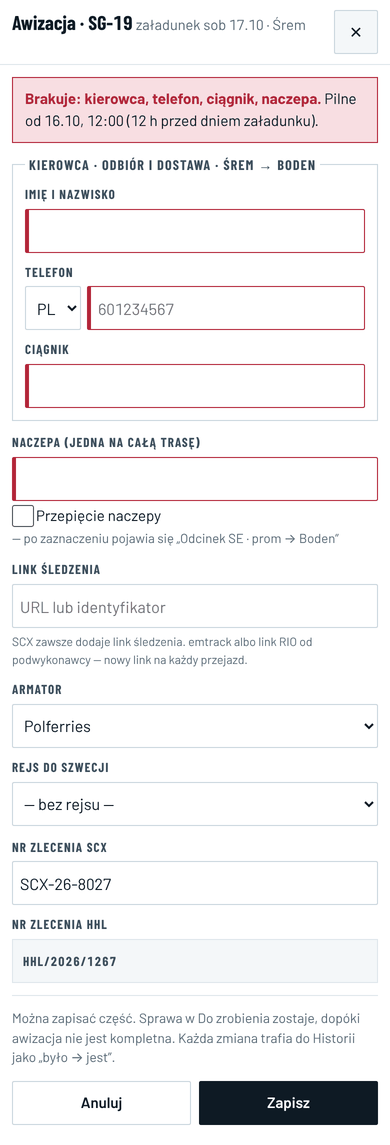
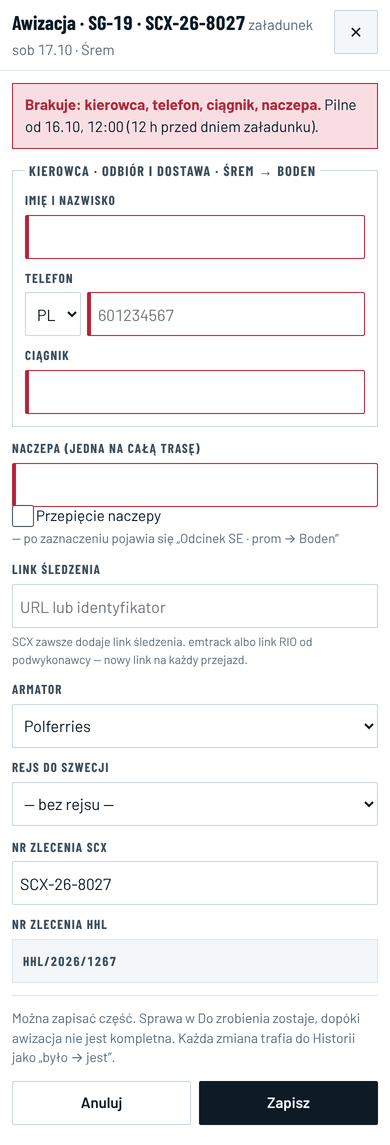
fix(wyglad/P7-a): poprawki z audytu decyzji 15.10 — CMR według E31 1B, zezwolenie Firma/Trasa, numer HHL w polu, okno tylko do odczytu dla HHL Operacje, odcinek SE tylko przy przepięciu, bez starej listy pilotów, nazwa E41 w oknie, „OC przewoźnika — PZU”
Claude-Session: https://claude.ai/code/session_01S36qMbEWpRWj55jt4pBR6E

diff --git a/src/components/drawer/PanelOverview.tsx b/src/components/drawer/PanelOverview.tsx
@@ -25,7 +25,7 @@ import { SITES } from '../../lib/status';
 import { effArrival, effDeparture, fmtLocal, sailingStatusLabel } from '../../lib/sailings';
 import { getDocReqCache } from '../../lib/docReqCache';
 import { DEFAULT_DOC_REQUIREMENTS, docStatusRows } from '../../lib/docRequirements';
-import { reqVisible } from '../../lib/p5Docs';
+import { cmrKind, reqVisible } from '../../lib/p5Docs';
 import { policiesOf } from '../../lib/p5Source';
 import { trackingLinkOf } from '../../lib/p4cSource';
 import { EtaBlock } from './EtaBlock';
@@ -50,8 +50,6 @@ interface Props {
   siteSince: string | null;
   delayMin: number | null;
   mapNode: ReactNode;
-  /** dzisiejsza lista pilotów z bazy (produkcja, SCX i KSH), dopóki piloci nie wejdą do awizacji */
-  escortNode: ReactNode;
   ratingNode: ReactNode;
   onAwiz: () => void;
   onKshDates: () => void;
@@ -135,11 +133,19 @@ export function PanelOverview(p: Props) {
     peopleOf: () => null, historyOf: () => null, onTake: noop, onGive: noop, onTakeover: noop, confirmId: null, onConfirm: noop,
     onCancelConfirm: noop, onGo: noop, onFee: noop, checkHandlers: () => ({}), decisions: null, mayResolve: () => false, onResolved: noop,
   };
+  /* E32 pkt 2, E9 krok 5: numer HHL wpisuje HHL w „Numerach zleceń”, bez okna Awizacja i bez kompletnej awizacji */
+  const goHhlNo = () => {
+    const fold = document.querySelector<HTMLDetailsElement>('.drawer details[data-po="numbers"]');
+    if (fold) fold.open = true;
+    const el = document.querySelector<HTMLInputElement>('.drawer [data-order="hhl"] input');
+    el?.scrollIntoView({ block: 'center' });
+    el?.focus();
+  };
   const action = (i: TodoIssue): ReactNode => {
     if (i.owner !== role) return <span className="po-chip">{ORG_SHORT[i.owner]}</span>;
     if (i.go === 'AWIZACJA') {
       if (role === 'SCX') return <button type="button" className="btn ghost" data-po-act="awiz" onClick={p.onAwiz}>{pt(locale, 'p7_todo_awiz')}</button>;
-      if (role === 'HHL' && i.risk?.titleKey?.startsWith('rk_order_no_hhl') && !(load.hhlOrderNo ?? '').trim()) return <button type="button" className="btn" data-po-act="hhl-no" onClick={p.onAwiz}>{pt(locale, 'p7_todo_add')}</button>;
+      if (role === 'HHL' && i.risk?.titleKey?.startsWith('rk_order_no_hhl') && !(load.hhlOrderNo ?? '').trim()) return <button type="button" className="btn" data-po-act="hhl-no" onClick={goHhlNo}>{pt(locale, 'p7_todo_add')}</button>;
     }
     if (i.go === 'DOCS') return <button type="button" className="btn ghost" data-po-act="docs" onClick={() => p.onTab('docs')}>{pt(locale, 'p7_todo_upload')}</button>;
     if (i.go === 'PRICING' || i.go === 'FEE') return <button type="button" className="btn ghost" data-po-act="pricing" onClick={() => p.onTab('pricing')}>{pt(locale, 'p7_todo_prices')}</button>;
@@ -204,8 +210,8 @@ export function PanelOverview(p: Props) {
   const segNow = segmentNow(load);
   const hasDriver = !!(r.driverName ?? '').trim();
   const swap = !!r.trailerSwap;
-  /* dwa odcinki — ten sam warunek co w oknie Awizacja: przepięcie albo wpisany kierowca / ciągnik odcinka SE (E6) */
-  const twoSeg = swap || [r.driverDeliveryName, r.driverDeliveryPhone, r.tractorDeliveryPlate].some((v) => !!(v ?? '').trim());
+  /* dwa odcinki tylko przy przepięciu naczepy (E6: bez przepięcia jeden kierowca „odbiór i dostawa”) */
+  const twoSeg = swap;
   const driverCard = (seg: 'one' | 'PL' | 'SE', name: string | null | undefined, tel: string | null | undefined, tractor: string | null | undefined) => {
     const now = (seg === 'PL' && segNow === 'PL') || (seg === 'SE' && segNow === 'SE');
     const label = pt(locale, seg === 'one' ? 'p7_seg_one' : seg === 'PL' ? 'p7_seg_pl' : 'p7_seg_se');
@@ -256,8 +262,10 @@ export function PanelOverview(p: Props) {
   const rows = cached ? cached.status.filter((x) => x.loadId === load.id) : prod ? [] : docStatusRows([load], [...docs], reqs, Date.parse(nowIso));
   const doc = (c: string) => docs.find((d) => d.category === c && (d.status === 'UPLOADED' || d.status === 'MISMATCH') && !d.superseded);
   const row = (c: string) => rows.find((x) => x.category === c);
+  /* E31 (G-01c, L30): „Firma” — jedno zezwolenie firmowe wystarcza; „Trasa” — PL i SE przy transporcie */
+  const permitFirm = spec?.permit === 'FIRMA';
   const permitState: 'mismatch' | 'ok' | 'missing' = load.permitFits === false || docs.some((d) => d.category.startsWith('PERMIT') && d.status === 'MISMATCH')
-    ? 'mismatch' : doc('PERMIT_PL') && doc('PERMIT_SE') ? 'ok' : 'missing';
+    ? 'mismatch' : (permitFirm ? !!(doc('PERMIT_PL') ?? doc('PERMIT_SE')) : !!(doc('PERMIT_PL') && doc('PERMIT_SE'))) ? 'ok' : 'missing';
   const permitRows = [row('PERMIT_PL'), row('PERMIT_SE')].filter((x): x is NonNullable<typeof x> => !!x && x.state !== 'OK');
   const permitRow = permitRows.find((x) => x.state === 'OVERDUE')
     ?? [...permitRows].sort((a, b) => (a.dueAt ?? '9999').localeCompare(b.dueAt ?? '9999'))[0];
@@ -267,9 +275,10 @@ export function PanelOverview(p: Props) {
         : permitRow?.dueAt ? ptp(locale, 'p7_doc_due', { date: dmHm(permitRow.dueAt) }) : pt(locale, 'p7_doc_missing');
   const cmrDoc = doc('CMR');
   const cmrRow = row('CMR');
+  const cmrSigned = cmrKind(reqs.find((x) => x.category === 'CMR')) === 'SIGNED';
   const cmrState: 'ok' | 'over' | 'wait' = cmrDoc ? 'ok' : cmrRow?.state === 'OVERDUE' ? 'over' : 'wait';
   const cmrText = cmrState === 'ok' ? pt(locale, 'p7_doc_ok') : cmrState === 'over' ? pt(locale, 'p7_doc_over')
-    : cmrRow?.dueAt ? ptp(locale, 'p7_doc_due', { date: dmHm(cmrRow.dueAt) }) : pt(locale, 'p7_doc_cmr_after');
+    : cmrRow?.dueAt ? ptp(locale, 'p7_doc_due', { date: dmHm(cmrRow.dueAt) }) : pt(locale, cmrSigned ? 'p7_doc_cmr_after_unload' : 'p7_doc_cmr_after');
   const policies = policiesOf();
   const policyRow = (key: 'INSURANCE' | 'OCS') => {
     if (!reqVisible(key, role)) return null;
@@ -378,7 +387,6 @@ export function PanelOverview(p: Props) {
             </>
           ) : null}
         </dl>
-        {!spec ? p.escortNode : null}
         {awizBtn ? <div className="po-act" data-awiz-actions>{awizBtn}</div> : null}
       </Sec>
 
@@ -417,12 +425,9 @@ export function PanelOverview(p: Props) {
           <dl className="po-kv">
             <dt>HHL</dt>
             <dd data-order="hhl">
-              {hhlNo ? <b className="mono">{hhlNo}</b> : <span className="po-miss">{pt(locale, 'p7_num_missing')}</span>}
               {orderSide === 'HHL' ? (
-                <button type="button" className={`btn ${hhlNo ? 'ghost' : ''} po-inline`} data-hhl-order-btn onClick={p.onAwiz}>
-                  {pt(locale, hhlNo ? 'p7_num_edit' : 'p7_num_add')}
-                </button>
-              ) : !hhlNo ? <span className="po-muted">{` · ${pt(locale, 'p7_num_by_hhl')}`}</span> : null}
+                <OrderNoField key={`hhl-${load.id}`} value={load.hhlOrderNo} onSave={(v) => setOrderNo(load.id, 'HHL', v)} locale={locale} />
+              ) : hhlNo ? <b className="mono">{hhlNo}</b> : <><span className="po-miss">{pt(locale, 'p7_num_missing')}</span><span className="po-muted">{` · ${pt(locale, 'p7_num_by_hhl')}`}</span></>}
             </dd>
             <dt>SCX</dt>
             <dd data-order="scx">
@@ -442,9 +447,9 @@ export function PanelOverview(p: Props) {
         right={!phone ? <button type="button" className="linkbtn po-go" data-po-go="docs" onClick={() => p.onTab('docs')}>{pt(locale, 'p7_docs_go')} →</button> : null}
       >
         <dl className="po-kv">
-          <dt>{pt(locale, 'p7_doc_permit')}</dt>
+          <dt>{pt(locale, permitFirm ? 'p7_doc_permit_firm' : 'p7_doc_permit')}</dt>
           <dd data-permit={permitState}><span className={permitState === 'ok' ? 'po-ok' : 'po-miss'}>{permitText}</span></dd>
-          <dt>{pt(locale, 'p7_doc_cmr')}</dt>
+          <dt>{pt(locale, cmrSigned ? 'p7_doc_cmr_signed' : 'p7_doc_cmr')}</dt>
           <dd data-po-cmr={cmrState}><span className={cmrState === 'ok' ? 'po-ok' : cmrState === 'over' ? 'po-miss' : ''}>{cmrText}</span></dd>
           {pols.map((x) => (
             <Fragment key={x.key}>

diff --git a/src/components/drawer/AwizacjaModal.tsx b/src/components/drawer/AwizacjaModal.tsx
@@ -23,7 +23,8 @@ import { getNowIso } from '../../lib/frozenNow';
 import { trackingLinkOf } from '../../lib/p4cSource';
 import { TrackingLinkField } from './TrackingLinkField';
 import { awizDeadline, awizMissing, convoyOf, dayShort, dmHm, NO_PILOTS, pilotsMissingCount, type Pilots } from '../../lib/p7Awiz';
-import { pilotsOf, savePilotsOf, symbolSpecOf } from '../../lib/p7Source';
+import { canFixAwizOf, pilotsOf, savePilotsOf, symbolSpecOf } from '../../lib/p7Source';
+import { transportLabel } from '../../lib/transportName';
 import { pt, ptp } from '../../i18n/p7';
 import type { Load } from '../../types';
 import './p7.css';
@@ -175,13 +176,13 @@ export function AwizacjaModal({ load, onClose }: Props) {
     pilotsOn ? pil : null,
   );
   const deadline = awizDeadline(load.plannedLoadDate, nowIso, load.planDates?.loadFrom ?? null);
-  const twoSeg = trailerSwap || !!(driverDeliveryName || driverDeliveryPhone || tractorDeliveryPlate);
-  /* E32 pkt 6: KSH tylko ogląda awizację (wejście z adresu `?zakladka=awizacja`) */
-  const readOnly = role === 'KSH';
+  /* E6: odcinek SE tylko przy przepięciu naczepy */
+  const twoSeg = trailerSwap;
+  /* E32 pkt 6: SCX robi, HHL Administrator poprawia (canFixAwizOf), HHL Operacje i KSH tylko oglądają */
+  const readOnly = role === 'KSH' || (role === 'HHL' && !canFixAwizOf(role));
   const missText = missing.map((m) => pt(locale, `p7_miss_${m}`)).join(', ');
   const pilotsMiss = pilotsMissingCount(missing);
   const setPilot = (side: 'pl' | 'se', key: 'plate' | 'name', v: string) => setPil((x) => ({ ...x, [side]: { ...x[side], [key]: v } }));
-  const scxMissing = role === 'SCX' && !(load.carrierOrderNo ?? '').trim();
 
   return (
     <>
@@ -195,8 +196,12 @@ export function AwizacjaModal({ load, onClose }: Props) {
       >
         <header className="panel-hd am-hd">
           <h2 id="awiz-title" className="am-title">
-            {ptp(locale, 'p7_m_title', { code: load.code })}
-            {scxMissing ? <span className="am-miss"> {pt(locale, 'p7_hd_miss_scx')}</span> : null}
+            {(() => {
+              /* E41: nazwa transportu według firmy („SG-15 brak nr SCX” — brak na czerwono) */
+              const label = transportLabel(load, role, 'panel');
+              const m = / (brak nr (?:HHL|SCX))$/.exec(label);
+              return m ? <>{ptp(locale, 'p7_m_title', { code: label.slice(0, m.index) })}<span className="am-miss"> {m[1]}</span></> : ptp(locale, 'p7_m_title', { code: label });
+            })()}
             <span className="am-sub">{` ${ptp(locale, 'p7_m_load', { day: dayShort(load.plannedLoadDate) })}`}</span>
           </h2>
           <button type="button" className="iconbtn" aria-label={t(locale, 'close')} onClick={onClose}>✕</button>
@@ -372,7 +377,7 @@ export function AwizacjaModal({ load, onClose }: Props) {
               </p>
               {convoy.length ? (
                 <p className="am-convoy" data-awiz-convoy={convoy.length}>
-                  {ptp(locale, 'p7_m_convoy', { day: dayShort(load.plannedLoadDate), codes: convoy.map((l) => l.code).join(', ') })}
+                  {ptp(locale, 'p7_m_convoy', { day: dayShort(load.plannedLoadDate), codes: convoy.map((l) => transportLabel(l, role)).join(', ') })}
                 </p>
               ) : null}
               {(['pl', 'se'] as const).map((side) => (

diff --git a/tests/etap4-ui.spec.ts b/tests/etap4-ui.spec.ts
@@ -62,14 +62,12 @@ async function openLoadKsh(page: Page, code: string) {
   await openLoad(page, code, { orders: false })
   await page.waitForSelector('.drawer [data-ksh-edit]')
 }
-/** B-SMOKE-DRIFT: nr HHL edytowany w oknie awizacji (AWIZ-4 / HHL-4a, 13ace35), nie w polu szuflady. */
+/** wyglad/P7-a — E32 pkt 2, E9 krok 5: nr HHL wpisuje HHL w „Numerach zleceń” Przeglądu (bez okna Awizacja i bez kompletnej awizacji). */
 async function setHhlOrder(page: Page, v: string) {
   await page.locator('.drawer button[aria-selected]').nth(0).click()
-  await page.locator('.drawer [data-hhl-order-btn]').click()
-  const modal = page.locator('[data-awiz-modal]')
-  await modal.locator('[data-awiz-hhl-order]').fill(v)
-  await modal.locator('[data-awiz-save]').click()
-  await expect(modal).toHaveCount(0)
+  const f = page.locator('.drawer [data-order="hhl"]')
+  await f.locator('input').fill(v)
+  await f.locator('button[type="submit"]').click()
 }
 
 test.describe('M5 — numery zleceń', () => {
@@ -113,7 +111,8 @@ test.describe('M5 — numery zleceń', () => {
     expect(code, 'transport z przyciskiem Zmień status').not.toBe('')
     await page.locator('.drawer button[aria-selected]').nth(0).click()
     await expect(page.locator('.drawer [data-order="scx"] input')).toHaveCount(0)
-    await expect(page.locator('.drawer [data-order="hhl"] .mono')).toHaveText(/^HHL\/2026\//)
+    /* wyglad/P7-a — E32: HHL wpisuje numer w polu „Numery zleceń” */
+    await expect(page.locator('.drawer [data-order="hhl"] input')).toHaveValue(/^HHL\/2026\//)
     await setHhlOrder(page, '')
     await closeDrawer(page)
     const row0 = page.locator('tr[data-load]', { has: page.locator('span.code', { hasText: new RegExp(`^${code}`) }) })

diff --git a/src/components/drawer/LoadDrawer.tsx b/src/components/drawer/LoadDrawer.tsx
@@ -42,7 +42,7 @@ const PanelChat = lazy(lazyRetry(() => import('./PanelChat').then((m) => ({ defa
 const PanelOverview = lazy(lazyRetry(() => import('./PanelOverview').then((m) => ({ default: m.PanelOverview }))));
 const CarrierRating = import.meta.env.VITE_AUTH_MODE === 'supabase' && SUPABASE_AUTH_ENABLED ? lazy(() => import('../../auth/CarrierRating')) : null;
 /* III-4 — pojazdy pilotujące z bazy (load_escorts): tylko build Supabase; w Przeglądzie do czasu pilotów w awizacji (P7) */
-const EscortPanel = import.meta.env.VITE_AUTH_MODE === 'supabase' && SUPABASE_AUTH_ENABLED ? lazy(() => import('../../auth/EscortPanel')) : null;
+/* E32 (zmiana 09.10): stara lista pilotów (EscortPanel) nie pokazuje się — piloci tylko w awizacji przy „PL + SE” (D-20261015-0130-01 P3) */
 
 type Tab = 'overview' | 'timeline' | 'history' | 'docs' | 'pricing' | 'chat';
 
@@ -271,7 +271,6 @@ export function LoadDrawer() {
                   siteSince={statusAxis.current === 'APPROACHING_SITE' ? statusAxis.currentSince : null}
                   delayMin={delayMin}
                   mapNode={<CorridorMap loads={drawerMapLoads} embedded slot="drawer" />}
-                  escortNode={EscortPanel && isServerId(load.id) && (role === 'SCX' || role === 'KSH') ? <Suspense fallback={null}><EscortPanel key={load.id} loadId={load.id} /></Suspense> : null}
                   ratingNode={CarrierRating && (role === 'HHL' || role === 'SCX') && isServerId(load.id) ? <Suspense fallback={null}><CarrierRating key={load.id} loadId={load.id} /></Suspense> : null}
                   onAwiz={() => setAwizOpen(true)}
                   onKshDates={() => setKshDatesOpen(true)}

diff --git a/tests/e8-phone-gate.spec.ts b/tests/e8-phone-gate.spec.ts
@@ -1560,7 +1560,8 @@ test.describe('wyglad/P7-a panel transportu — Przegląd i okno Awizacja (E32)'
     await expect(page.locator('.drawer [data-awiz-state]')).toHaveAttribute('data-awiz-state', 'none');
     await expect(page.locator('.drawer [data-po-set]')).toContainText('× 2,50 m');
     await expect(page.locator('.drawer [data-po-permit-kind="FIRMA"]')).toBeVisible();
-    await expect(page.locator('.drawer [data-order="hhl"] [data-hhl-order-btn]')).toBeVisible();
+    /* E32 pkt 2 / E9 krok 5: numer HHL wpisuje HHL w „Numerach zleceń”, bez okna Awizacja */
+    await expect(page.locator('.drawer [data-order="hhl"] input')).toBeVisible();
     await expect(page.locator('.drawer [data-awiz-open]')).toHaveCount(0);
     await expect(page.locator('.drawer [data-awiz-fix]')).toHaveText('Popraw awizację');
     await expect(page.locator('.drawer [data-action="export-load-pdf-map"]')).toBeVisible();

diff --git a/src/i18n/p5.ts b/src/i18n/p5.ts
@@ -291,7 +291,7 @@ const PL: Record<string, string> = {
   p5_doc_r_CMR_SIGNED: 'CMR z podpisem odbiorcy',
   p5_doc_r_CMR_LOAD: 'CMR z załadunku',
   p5_doc_r_INSURANCE: 'Polisa OCP przewoźnika',
-  p5_doc_r_OCS: 'Polisa HHL (spedytor)',
+  p5_doc_r_OCS: 'OC przewoźnika — PZU',
   p5_doc_who_INSURANCE: 'SCX wpisuje, HHL zatwierdza',
   p5_doc_who_OCS: 'HHL',
   p5_doc_due_CMR_SIGNED: 'po „Dostarczone”, do {h} h',

diff --git a/src/i18n/p7.ts b/src/i18n/p7.ts
@@ -103,6 +103,9 @@ const PL: Record<string, string> = {
   p7_docs_go: 'Dokumenty',
   p7_doc_permit: 'Zezwolenie PL, SE',
   p7_doc_cmr: 'CMR z załadunku',
+  p7_doc_cmr_signed: 'CMR z podpisem odbiorcy',
+  p7_doc_cmr_after_unload: 'po rozładunku',
+  p7_doc_permit_firm: 'Zezwolenie firmowe',
   p7_doc_policy_INSURANCE: 'Polisa SCX',
   p7_doc_ok: 'jest',
   p7_doc_mismatch: 'niezgodne z zestawem',

diff --git a/docs/handover/odbior/P7/POROWNANIE.md b/docs/handover/odbior/P7/POROWNANIE.md
@@ -34,11 +34,11 @@ Osoby, telefony (pula fikcyjna +48 000 000 0xx) i piloci (WX 0000x, ABC 00x) są
 | mapa | zoom 11 / cała trasa z powodem (E1) | dzisiejsza mapa transportu | nie | E1 — P9 (PLAN §4 P7: „P7 jej nie zmienia”) |
 | Plan i ETA | „czw 08.10.2026 · godzina nie podana”, miejsce, „z harmonogramu KSH · import 01.10, 21:43”, „KSH może zmienić do wjazdu na załadunek”, ETA „–” do wyjazdu | to samo; po zmianie dat „zmienił Imię Nazwisko // Firma, …”; bez „potwierdził” bez osoby; ETA — blok E15 | tak | ETA jako blok E15 (img/e15-after), do którego odsyła E32 pkt 4; „Jak działa” z E15 |
 | Awizacja (bez kierowcy) | „Awizacja · uzupełnia SCX BRAK”, Kierowca —, Ciągnik · naczepa — · —, Link —, Rejs „wybiera SCX z rozkładu w awizacji” | to samo; przy części „BRAKUJE n” | tak | przycisk: SCX „Uzupełnij awizację” / „Edytuj awizację”, HHL „Popraw awizację” (demo) |
-| Kierowcy i zestaw | odcinki PL / SE z „Zadzwoń”, odcinek „teraz” wyróżniony; naczepa, link „wpisany”, rejs | to samo (E6); jeden kierowca — „Kierowca · odbiór i dostawa · Śrem → Boden” | tak | telefon według `visibleDriverPhone` jak dotąd |
-| piloci | tylko „PL + SE” (KR, PL-B): pilot PL, pilot SE | wiersze „Pilot PL / SE” — „brak · uzupełnia SCX” albo numer i nazwisko (K-03) | tak | produkcja po P3 dopisku |
+| Kierowcy i zestaw | odcinki PL / SE z „Zadzwoń”, odcinek „teraz” wyróżniony; naczepa, link „wpisany”, rejs | to samo (E6); bez przepięcia jeden kierowca — „Kierowca · odbiór i dostawa · Śrem → Boden” | tak | telefon według `visibleDriverPhone` jak dotąd |
+| piloci | tylko „PL + SE” (KR, PL-B): pilot PL, pilot SE; przy „BRAK” nigdzie | wiersze „Pilot PL / SE” — „brak · uzupełnia SCX” albo numer i nazwisko (K-03); stara lista „Pojazdy pilotujące” (`EscortPanel`) usunięta z panelu | tak | produkcja po P3 dopisku (`load_escorts` 0 wierszy — nic nie znika) |
 | Ładunek i zestaw | „Słupy główne · SG · 7 szt. · 20,44 t”, wymiary ładunku, „Zestaw z ładunkiem 21,69 × 2,45 × 3,75 m [Zmień] z Twojej tabeli (SG) · zmienia HHL”, „FIRMA podpina się samo” | to samo; „z tabeli HHL (SG)” albo „wpisane przy transporcie”; „TRASA wgrywa SCX do transportu” przy KR | tak, bez „Zmień” | „Zmień” po zapisie dla HHL (dopisek P2 pkt 3) |
-| Numery zleceń | HHL „brak [Dodaj]”, SCX „brak · wpisuje SCX” | to samo; SCX wpisuje swój numer w miejscu; KSH bez sekcji (E41) | tak | — |
-| Dokumenty | „Zezwolenie PL, SE — brak · po terminie”, „CMR z załadunku — do 2 h po załadunku”, „Polisa SCX …”, „Dokumenty →” | to samo z wymagań E31 (P5); „niezgodne z zestawem” przy `permitFits = false` | tak | polisa HHL — w zakładce Dokumenty |
+| Numery zleceń | HHL „brak [Dodaj]”, SCX „brak · wpisuje SCX” | HHL i SCX wpisują swój numer w miejscu, bez okna Awizacja i bez kompletnej awizacji (E9 krok 5); „Dodaj” w Do zrobienia przenosi do pola; KSH bez sekcji (E41) | tak | ten sam zapis `setOrderNo` co dotąd |
+| Dokumenty | „Zezwolenie PL, SE — brak · po terminie”, „CMR …”, „Polisa SCX …”, „Dokumenty →” | wymagania E31 (P5): „Firma” — jeden wiersz „Zezwolenie firmowe”, „Trasa” — „Zezwolenie PL, SE” (G-01c, L30); CMR według wymagania z bazy — „CMR z podpisem odbiorcy · po rozładunku” (E31 1B; obraz e32-after ma starsze „CMR z załadunku”, decyzja wygrywa — Z2); „niezgodne z zestawem” przy `permitFits = false` | tak | polisa HHL — w zakładce Dokumenty, nazwa „OC przewoźnika — PZU” (Uzgodnienie pkt 3) |
 | znika | „Kontrola trasy”, „Przeszkody”, profil trasy, czerwony baner zezwolenia, „potwierdził KSH” | nie ma | tak | klucz fasady `permitNumber` usunięty (I-2: 9 → 8) |
 | PDF | „PDF transportu (+ mapa)” | to samo | tak | — |
 
@@ -46,7 +46,7 @@ Osoby, telefony (pula fikcyjna +48 000 000 0xx) i piloci (WX 0000x, ABC 00x) są
 
 | element | obraz raportu / decyzja | po zmianie w aplikacji | zgodne | uwagi |
 |---|---|---|---|---|
-| nagłówek | „Awizacja · SG-15 brak nr SCX załadunek czw 08.10 · Śrem” | to samo | tak | — |
+| nagłówek | „Awizacja · SG-15 brak nr SCX załadunek czw 08.10 · Śrem” | to samo — nazwa według firmy (E41: SCX „kod · nr SCX”, HHL „kod · nr HHL”) | tak | linia „Konwój” też z nazwami |
 | „Brakuje” | „Brakuje: kierowca, telefon, ciągnik, naczepa. Pilne od 07.10, 12:00 (12 h przed dniem załadunku).” | to samo, liczone na bieżąco z pól okna; z godziną z planu „(12 h przed załadunkiem)” jak `l3_anchor` | tak | komplet — „Awizacja kompletna.” |
 | odcinek kierowcy | „KIEROWCA · ODBIÓR I DOSTAWA · ŚREM → BODEN”: imię i nazwisko, telefon „PL ▾”, ciągnik | to samo; przy przepięciu „ODCINEK PL · ŚREM → PROM” i „ODCINEK SE · PROM → BODEN” | tak | puste pola z czerwoną krawędzią |
 | naczepa, przepięcie | „NACZEPA (JEDNA NA CAŁĄ TRASĘ)”, „Przepięcie naczepy — po zaznaczeniu pojawia się …” | to samo | tak | — |
@@ -55,7 +55,7 @@ Osoby, telefony (pula fikcyjna +48 000 000 0xx) i piloci (WX 0000x, ABC 00x) są
 | numery | „NR ZLECENIA SCX” (wymagane), „NR ZLECENIA HHL — wpisuje HHL” szare | to samo | tak | KSH bez numerów |
 | piloci | „Piloci 2 BRAKUJĄ”, opis z zestawu, konwój, „PILOT PL · ŚREM → GDAŃSK” i „PILOT SE · NYNÄSHAMN → BODEN”: numer rejestracyjny, imię i nazwisko | to samo (K-03); konwój KR z tą samą datą — jedna linia i zapis dla wszystkich kodów | tak | „Tabela HHL” zamiast „Twoja tabela” (okno widzi SCX) |
 | stopka | „Można zapisać część …”, „Anuluj”, „Zapisz” | to samo | tak, tekst | zapis części — dopisek P1 pkt 3 |
-| KSH | tylko ogląda (E32 pkt 6) | pola wyłączone, „Awizację robi SCX. Ty ją oglądasz.”, „Zamknij” | tak | wejście tylko z adresu `?zakladka=awizacja` |
+| KSH, HHL Operacje | tylko oglądają (E32 pkt 6) | pola wyłączone, „Awizację robi SCX. Ty ją oglądasz.”, „Zamknij”; HHL Administrator poprawia (`canFixAwizOf`, w produkcji po P4 dopisku) | tak | KSH wchodzi tylko z adresu `?zakladka=awizacja` |
 
 ### Telefon (E32 pkt 9, E8) — `porownanie-e32-telefon.png`
 
@@ -95,4 +95,5 @@ Osoby, telefony (pula fikcyjna +48 000 000 0xx) i piloci (WX 0000x, ABC 00x) są
 - Brama E8: nowy blok P7-a (komputer HHL, SCX, KSH; telefon HHL, SCX, KSH przy 360 / 390 / 430 / 768 px, także sekcje rozwinięte i okno Awizacja) — 4 / 4. Cały zestaw Playwright: poza 3 testami nie przechodzącymi tak samo na `main` (lokalne czcionki w zrzutach `visual` i `visual-states`, `d19-i18n` — „lang missing: en”) — zielony; w GitHub Actions decyduje `visual`.
 - Pierwsze wczytanie: 382,8 kB gzip (budżet 400 kB); Przegląd ładuje się leniwie.
 - Przepisane testy: `e2e-core` (awizacja: „Uzupełnij / Edytuj awizację”, „Awizacja · …”), `aud03-ksh-panel` (test: „Edytuj” w Przeglądzie; spec: „Plan” rozwijany na telefonie), `i2-facade` (rejestr 8 kluczy), `e8-phone-gate` P4-c (sekcja „Awizacja” rozwijana na telefonie).
-- Przegląd niezależny (agent bez udziału w pracy): 1 blokada (fałszywe „Polisa HHL: brak” w produkcji) i 6 uwag — poprawione: polisa jak w zakładce Dokumenty, termin od godziny załadunku, odcinek SE bez przepięcia, „Dodaj” tylko przy sprawie numeru HHL, wiersz zezwolenia z brakującego, KSH tylko ogląda; zapis części i definicja L3_AWIZ — dopisek P1.
+- Przegląd niezależny (agent bez udziału w pracy): 1 blokada (fałszywe „Polisa HHL: brak” w produkcji) i 6 uwag — poprawione: polisa jak w zakładce Dokumenty, termin od godziny załadunku, „Dodaj” tylko przy sprawie numeru HHL, wiersz zezwolenia z brakującego, KSH tylko ogląda; zapis części i definicja L3_AWIZ — dopisek P1.
+- Pełny audyt decyzji właściciela 15.10 (9 agentów, artefakt „Audyt Watch Tower”) — w tym PR poprawione: CMR według E31 1B, zezwolenie według „Firma” / „Trasa”, numer HHL w polu (bez okna Awizacja), okno tylko do odczytu dla HHL Operacje, odcinek SE tylko przy przepięciu, stara lista pilotów usunięta, nazwa E41 w oknie, nazwa polisy HHL. Reszta — dopisek D-20261015-0300-01.
